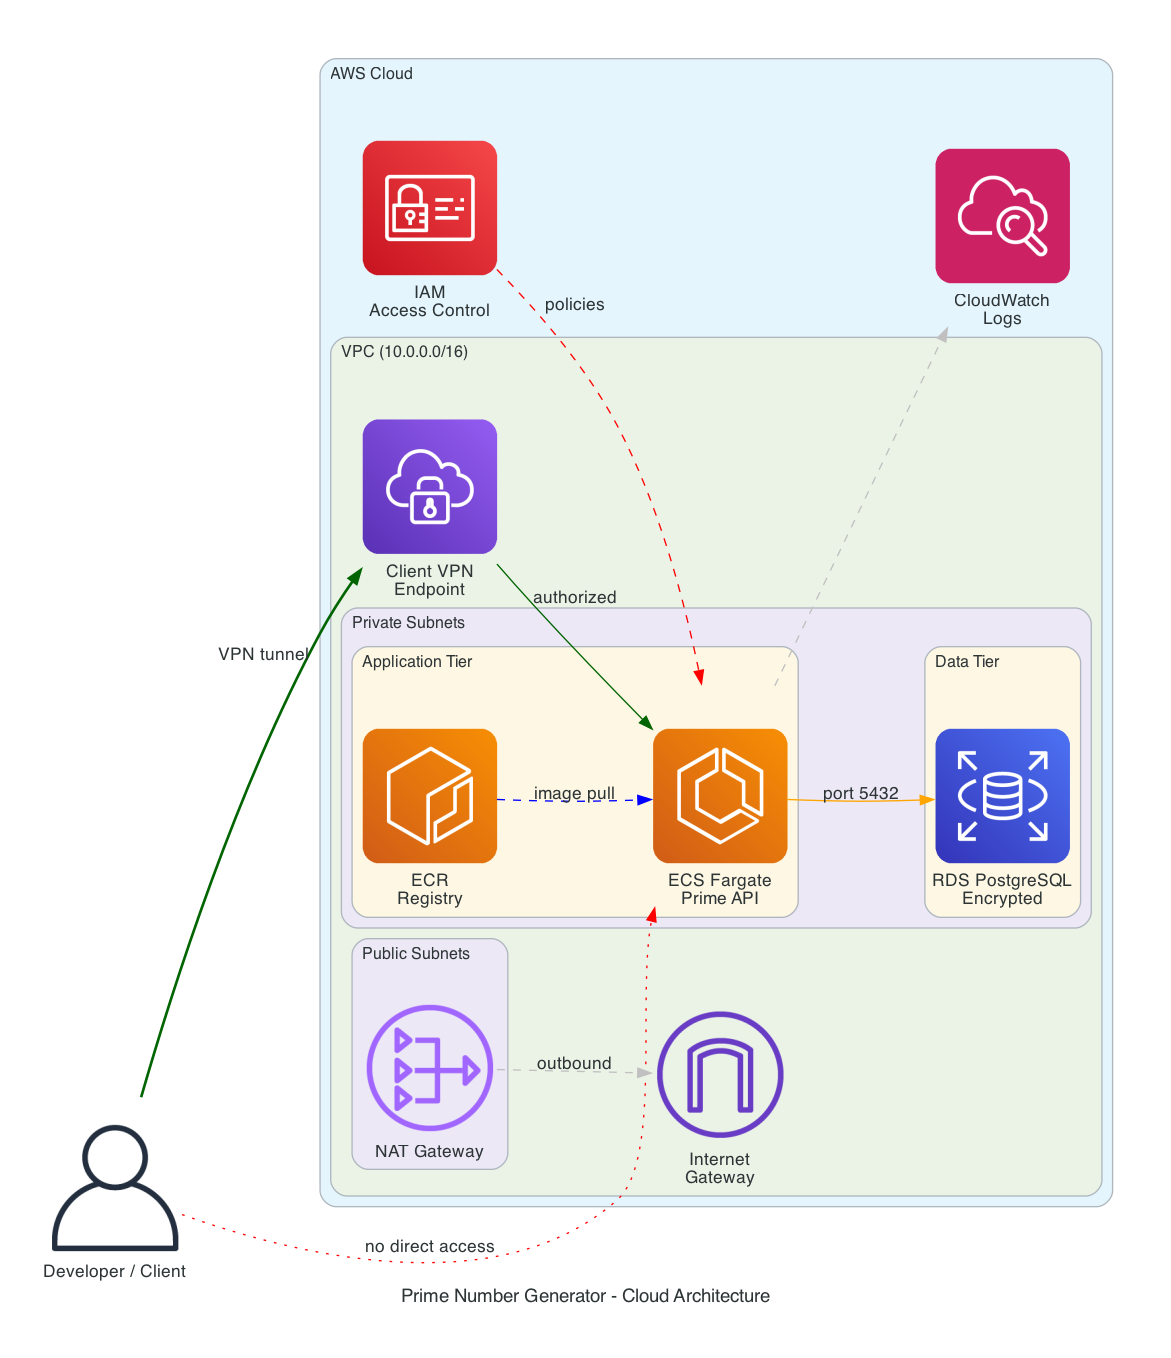
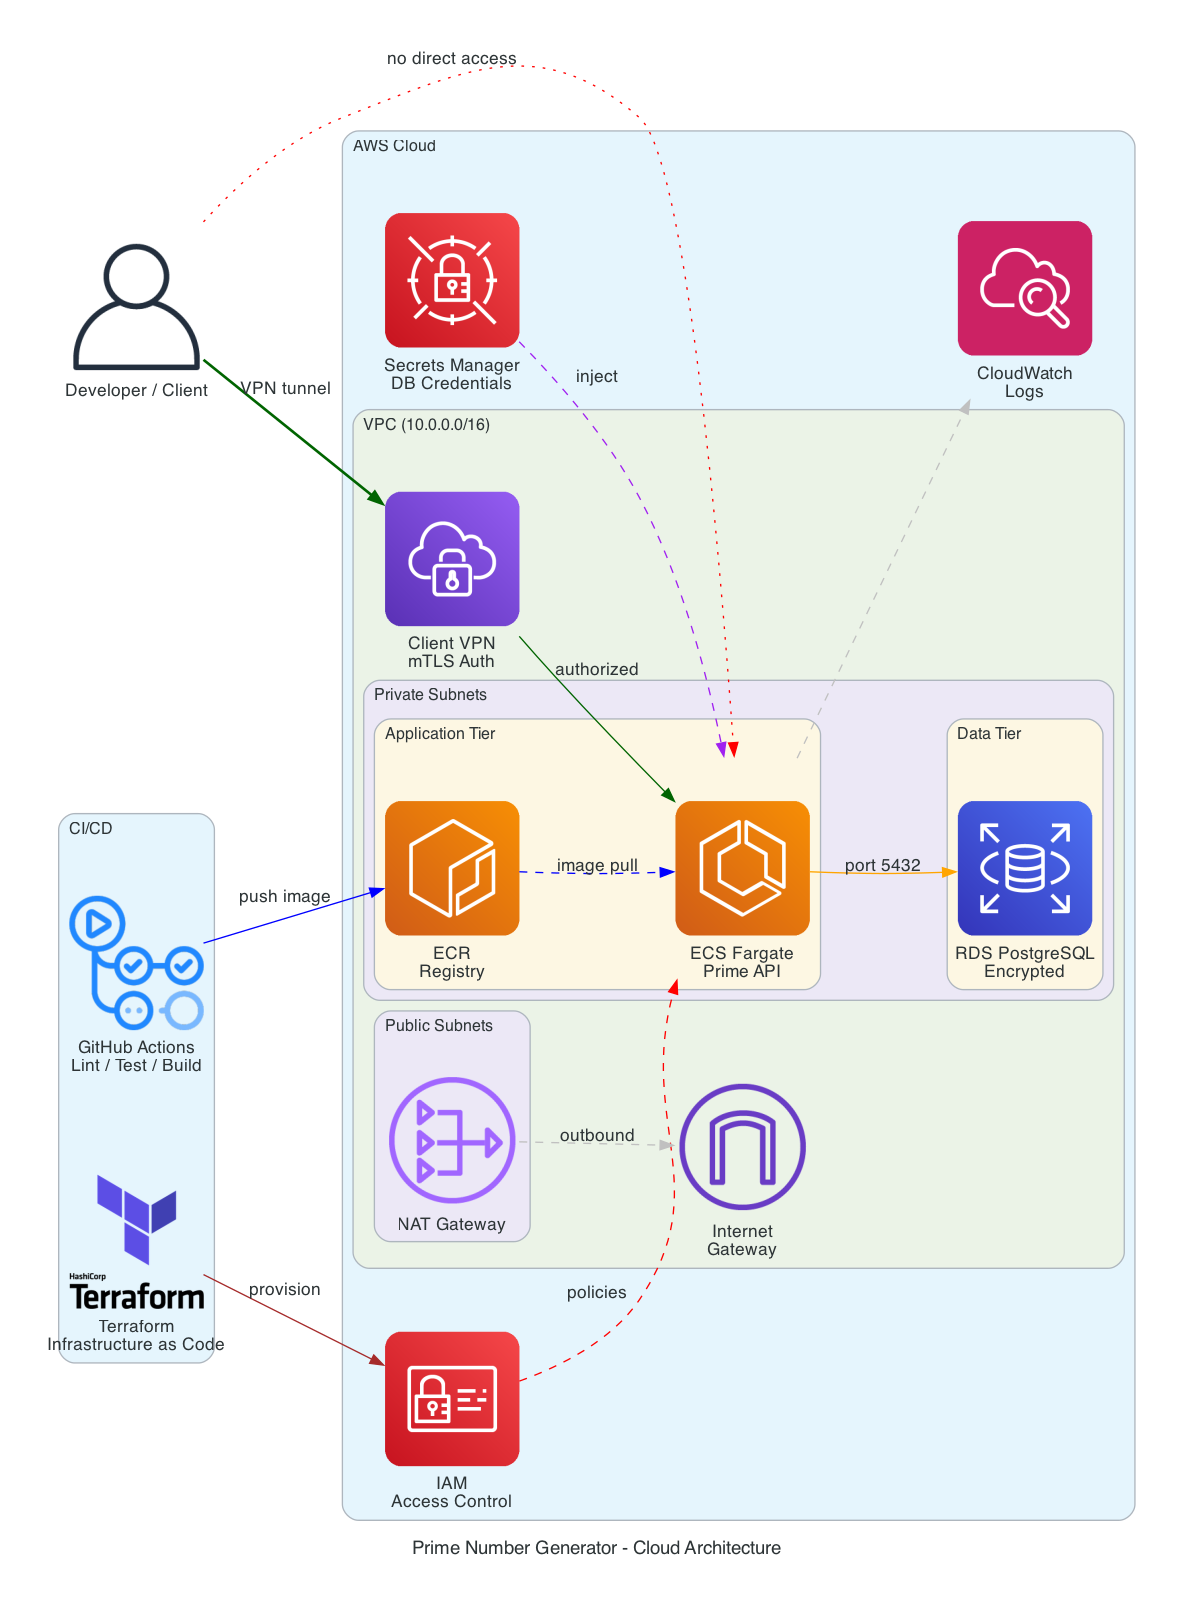
docs: update README with local quick-start guide and refresh architecture diagrams
- Added project structure overview and API endpoint documentation
  - Added step-by-step local quick-start with Docker Compose instructions
  - Updated architecture diagrams to reflect dual-network setup, CI/CD, Secrets Manager, and Terraform

Changed region(s): [[0.0307, 0.0309, 0.953, 0.9897], [0.4611, 0.2165, 0.5226, 0.2474]]

diff --git a/README.md b/README.md
@@ -1,6 +1,32 @@
-# Cloud Deployment Guide — AWS
+# Prime Number Generator — Microservice
 
-This guide covers deploying the Prime Number Generator API on AWS using ECS Fargate, RDS PostgreSQL, and AWS Client VPN.
+A containerized microservice that generates prime numbers within a given range, stores each execution in PostgreSQL, and is accessible only through a VPN-secured network.
+
+Built with Python (FastAPI), PostgreSQL, Docker Compose, WireGuard VPN, and Terraform (AWS).
+
+---
+
+## Project Structure
+
+```
+├── app/                        # Application source code
+│   ├── api/routes.py           # HTTP API endpoints
+│   ├── core/config.py          # Environment-based configuration
+│   ├── core/prime.py           # Sieve of Eratosthenes implementation
+│   ├── db/models.py            # SQLAlchemy database model
+│   ├── db/session.py           # Database connection management
+│   ├── schemas/prime.py        # Pydantic request/response schemas
+│   └── main.py                 # FastAPI application entry point
+├── tests/                      # Unit and API tests
+├── vpn/                        # WireGuard VPN configuration templates
+├── deploy/terraform/           # AWS infrastructure as code
+├── diagrams/                   # Architecture diagrams
+├── .github/workflows/ci.yml    # CI pipeline (lint, test, build)
+├── Dockerfile                  # Application container
+├── docker-compose.yml          # Local orchestration
+├── requirements.txt            # Python dependencies
+└── .env.example                # Environment variables template
+```
 
 ---
 
@@ -15,64 +41,168 @@ This guide covers deploying the Prime Number Generator API on AWS using ECS Farg
 ![Local Docker Architecture](diagrams/local_architecture.png)
 
 **Key security principles:**
-- ECS and RDS are in **private subnets** — no public internet access
-- API is accessible **only through VPN**
-- Database accepts connections **only from the app security group**
-- All credentials are passed via environment variables, never hardcoded
-- RDS storage is encrypted at rest
+- All services run on an internal Docker network with no external access
+- The API is reachable only through the WireGuard VPN gateway
+- The database accepts connections only from the application container
+- All credentials are managed via environment variables, never hardcoded
+- RDS storage is encrypted at rest (AWS deployment)
+- AWS Secrets Manager stores database credentials in production
 
 ---
 
-## Prerequisites
+## API Endpoints
+
+| Method | Endpoint | Description |
+|--------|----------|-------------|
+| `GET` | `/api/v1/health` | Health check |
+| `POST` | `/api/v1/primes` | Generate primes for a range `{"start": 1, "end": 100}` |
+| `GET` | `/api/v1/primes/history` | List past queries (paginated, `?limit=20`) |
+| `GET` | `/api/v1/primes/{id}` | Retrieve a specific query result |
+
+---
+
+## Local Quick Start
+
+### Prerequisites
+
+- Docker and Docker Compose installed
+- WireGuard tools (`brew install wireguard-tools` on macOS)
+
+### Step 1: Configure Environment
+
+```bash
+cp .env.example .env
+```
+
+Edit `.env` with your database credentials:
+```
+DATABASE_URL=postgresql://<DB_USER>:<DB_PASSWORD>@db:5432/<DB_NAME>
+POSTGRES_USER=<DB_USER>
+POSTGRES_PASSWORD=<DB_PASSWORD>
+POSTGRES_DB=<DB_NAME>
+```
+
+### Step 2: Configure WireGuard VPN
+
+Generate key pairs:
+```bash
+wg genkey | tee /tmp/server_private.key | wg pubkey > /tmp/server_public.key
+wg genkey | tee /tmp/client_private.key | wg pubkey > /tmp/client_public.key
+```
+
+Copy and fill in the config templates:
+```bash
+cp vpn/wg0.conf.example vpn/wg0.conf
+cp vpn/client.conf.example vpn/client.conf
+```
+
+Edit `vpn/wg0.conf`:
+- Replace `<SERVER_PRIVATE_KEY>` with contents of `/tmp/server_private.key`
+- Replace `<CLIENT_PUBLIC_KEY>` with contents of `/tmp/client_public.key`
+
+Edit `vpn/client.conf`:
+- Replace `<CLIENT_PRIVATE_KEY>` with contents of `/tmp/client_private.key`
+- Replace `<SERVER_PUBLIC_KEY>` with contents of `/tmp/server_public.key`
+- Replace `<SERVER_IP>` with `localhost`
+
+Clean up temporary keys:
+```bash
+rm /tmp/server_private.key /tmp/server_public.key /tmp/client_private.key /tmp/client_public.key
+```
+
+### Step 3: Build and Run
+
+```bash
+docker-compose up --build -d
+```
+
+Verify all containers are running:
+```bash
+docker-compose ps
+```
+
+Expected output:
+```
+NAME          IMAGE                          SERVICE   STATUS
+prime-api     casestudy-app                  app       Up
+prime-db      postgres:16-alpine             db        Up (healthy)
+vpn-gateway   linuxserver/wireguard:latest   vpn       Up
+```
+
+### Step 4: Test the API
+
+All requests must go through the VPN container since the API is not exposed externally:
+
+```bash
+# Health check
+docker exec vpn-gateway curl -s http://prime-api:8000/api/v1/health
+
+# Generate primes in range 1-100
+docker exec vpn-gateway curl -s -X POST http://prime-api:8000/api/v1/primes -H "Content-Type: application/json" -d '{"start": 1, "end": 100}'
+
+# View query history
+docker exec vpn-gateway curl -s http://prime-api:8000/api/v1/primes/history
+```
+
+Verify VPN isolation — this should fail:
+```bash
+curl http://localhost:8000/api/v1/health
+# Expected: "Failed to connect to localhost port 8000"
+```
+
+### Step 5: Run Tests
+
+```bash
+pip install -r requirements.txt
+pytest tests/ -v
+```
+
+---
+
+## AWS Cloud Deployment
+
+### Prerequisites
 
 - AWS CLI installed and configured (`aws configure`)
 - Terraform >= 1.5.0
 - Docker installed
-- Valid AWS account with permissions for: VPC, ECS, ECR, RDS, Client VPN, IAM, CloudWatch
+- AWS account with permissions for: VPC, ECS, ECR, RDS, Client VPN, IAM, CloudWatch, Secrets Manager
 
----
-
-## Step 1: Configure Variables
+### Step 1: Configure Variables
 
 ```bash
 cd deploy/terraform
 cp terraform.tfvars.example terraform.tfvars
 ```
 
-Edit `terraform.tfvars` with your credentials:
+Edit `terraform.tfvars` with your values:
 ```hcl
-aws_region      = "eu-central-1"
-project_name    = "prime-api"
-db_username     = "your_db_user"
-db_password     = "your_secure_password"
-db_name         = "your_db_name"
+aws_region                 = "eu-central-1"
+project_name               = "prime-api"
+db_username                = "your_db_user"
+db_password                = "your_secure_password"
+db_name                    = "your_db_name"
+vpn_server_certificate_arn = "<ACM_SERVER_CERT_ARN>"
+vpn_client_certificate_arn = "<ACM_CLIENT_CERT_ARN>"
 ```
 
 > **Important:** Never commit `terraform.tfvars` — it contains sensitive values.
 
----
+### Step 2: Generate VPN Certificates
 
-## Step 2: Generate VPN Certificates
-
-AWS Client VPN uses mutual TLS authentication. Generate the certificates:
+AWS Client VPN uses mutual TLS authentication:
 
 ```bash
-# Clone the easy-rsa tool
 git clone https://github.com/OpenVPN/easy-rsa.git /tmp/easy-rsa
 cd /tmp/easy-rsa/easyrsa3
 
-# Initialize PKI
 ./easyrsa init-pki
 ./easyrsa build-ca nopass
-
-# Generate server certificate
 ./easyrsa build-server-full server nopass
-
-# Generate client certificate
 ./easyrsa build-client-full client1 nopass
 ```
 
-Upload certificates to AWS ACM:
+Upload to AWS ACM:
 
 ```bash
 aws acm import-certificate \
@@ -88,11 +218,9 @@ aws acm import-certificate \
   --region eu-central-1
 ```
 
-Note the ARN values returned — you will need them for the Terraform config.
+Use the returned ARN values in `terraform.tfvars`.
 
----
-
-## Step 3: Deploy Infrastructure
+### Step 3: Deploy Infrastructure
 
 ```bash
 cd deploy/terraform
@@ -107,32 +235,20 @@ Save the outputs:
 terraform output
 ```
 
----
-
-## Step 4: Build and Push Docker Image
+### Step 4: Build and Push Docker Image
 
 ```bash
-# Get ECR login
 aws ecr get-login-password --region eu-central-1 | \
   docker login --username AWS --password-stdin <ACCOUNT_ID>.dkr.ecr.eu-central-1.amazonaws.com
 
-# Build the image
 docker build -t prime-api .
-
-# Tag for ECR
 docker tag prime-api:latest <ECR_REPOSITORY_URL>:latest
-
-# Push
 docker push <ECR_REPOSITORY_URL>:latest
 ```
 
 Replace `<ECR_REPOSITORY_URL>` with the value from `terraform output ecr_repository_url`.
 
----
-
-## Step 5: Deploy ECS Service
-
-After pushing the image, force a new deployment:
+### Step 5: Deploy ECS Service
 
 ```bash
 aws ecs update-service \
@@ -142,8 +258,7 @@ aws ecs update-service \
   --region eu-central-1
 ```
 
-Verify the service is running:
-
+Verify:
 ```bash
 aws ecs describe-services \
   --cluster prime-api-cluster \
@@ -152,51 +267,32 @@ aws ecs describe-services \
   --query 'services[0].{status:status,running:runningCount,desired:desiredCount}'
 ```
 
----
-
-## Step 6: Connect via VPN
-
-Download the Client VPN configuration:
+### Step 6: Connect via VPN
 
 ```bash
 aws ec2 export-client-vpn-client-configuration \
   --client-vpn-endpoint-id <VPN_ENDPOINT_ID> \
   --output text > vpn-client-config.ovpn
-```
 
-Append the client certificate and key to the `.ovpn` file:
-
-```bash
 echo "<cert>" >> vpn-client-config.ovpn
 cat /tmp/easy-rsa/easyrsa3/pki/issued/client1.crt >> vpn-client-config.ovpn
 echo "</cert>" >> vpn-client-config.ovpn
 echo "<key>" >> vpn-client-config.ovpn
 cat /tmp/easy-rsa/easyrsa3/pki/private/client1.key >> vpn-client-config.ovpn
 echo "</key>" >> vpn-client-config.ovpn
-```
 
-Connect using any OpenVPN client:
-
-```bash
 sudo openvpn --config vpn-client-config.ovpn
 ```
 
----
-
-## Step 7: Test the API
-
-Once connected to the VPN:
+### Step 7: Test the API
 
 ```bash
-# Health check
 curl http://<ECS_PRIVATE_IP>:8000/api/v1/health
 
-# Generate primes
 curl -X POST http://<ECS_PRIVATE_IP>:8000/api/v1/primes \
   -H "Content-Type: application/json" \
   -d '{"start": 1, "end": 100}'
 
-# View history
 curl http://<ECS_PRIVATE_IP>:8000/api/v1/primes/history
 ```
 
@@ -204,11 +300,9 @@ curl http://<ECS_PRIVATE_IP>:8000/api/v1/primes/history
 
 ## IAM Access Control
 
-### Roles and Permissions
-
 | Role | Purpose | Permissions |
 |------|---------|-------------|
-| ECS Task Execution Role | Allows ECS to pull images and write logs | `AmazonECSTaskExecutionRolePolicy` |
+| ECS Task Execution Role | Pull images, read secrets, write logs | `AmazonECSTaskExecutionRolePolicy` + Secrets Manager access |
 | Developer | Deploy updates, view logs | `ecr:PushImage`, `ecs:UpdateService`, `logs:GetLogEvents` |
 | Admin | Full infrastructure management | Full access to VPC, ECS, RDS, VPN, IAM |
 | Read-Only | View resources and logs | `ecs:Describe*`, `rds:Describe*`, `logs:Get*` |
@@ -216,10 +310,8 @@ curl http://<ECS_PRIVATE_IP>:8000/api/v1/primes/history
 ### Creating a Developer User
 
 ```bash
-# Create IAM group
 aws iam create-group --group-name prime-api-developers
 
-# Attach deployment policy
 aws iam put-group-policy \
   --group-name prime-api-developers \
   --policy-name deploy-policy \
@@ -245,7 +337,6 @@ aws iam put-group-policy \
     ]
   }'
 
-# Add user to group
 aws iam add-user-to-group \
   --group-name prime-api-developers \
   --user-name <USERNAME>
@@ -253,9 +344,19 @@ aws iam add-user-to-group \
 
 ---
 
+## CI/CD Pipeline
+
+The project includes a GitHub Actions pipeline (`.github/workflows/ci.yml`) that runs on every push and pull request:
+
+1. **Lint** — flake8 code style checks
+2. **Test** — pytest with 16 unit and API tests
+3. **Build** — Docker image build verification
+
+---
+
 ## Cleanup
 
-To destroy all resources:
+To destroy all AWS resources:
 
 ```bash
 cd deploy/terraform
